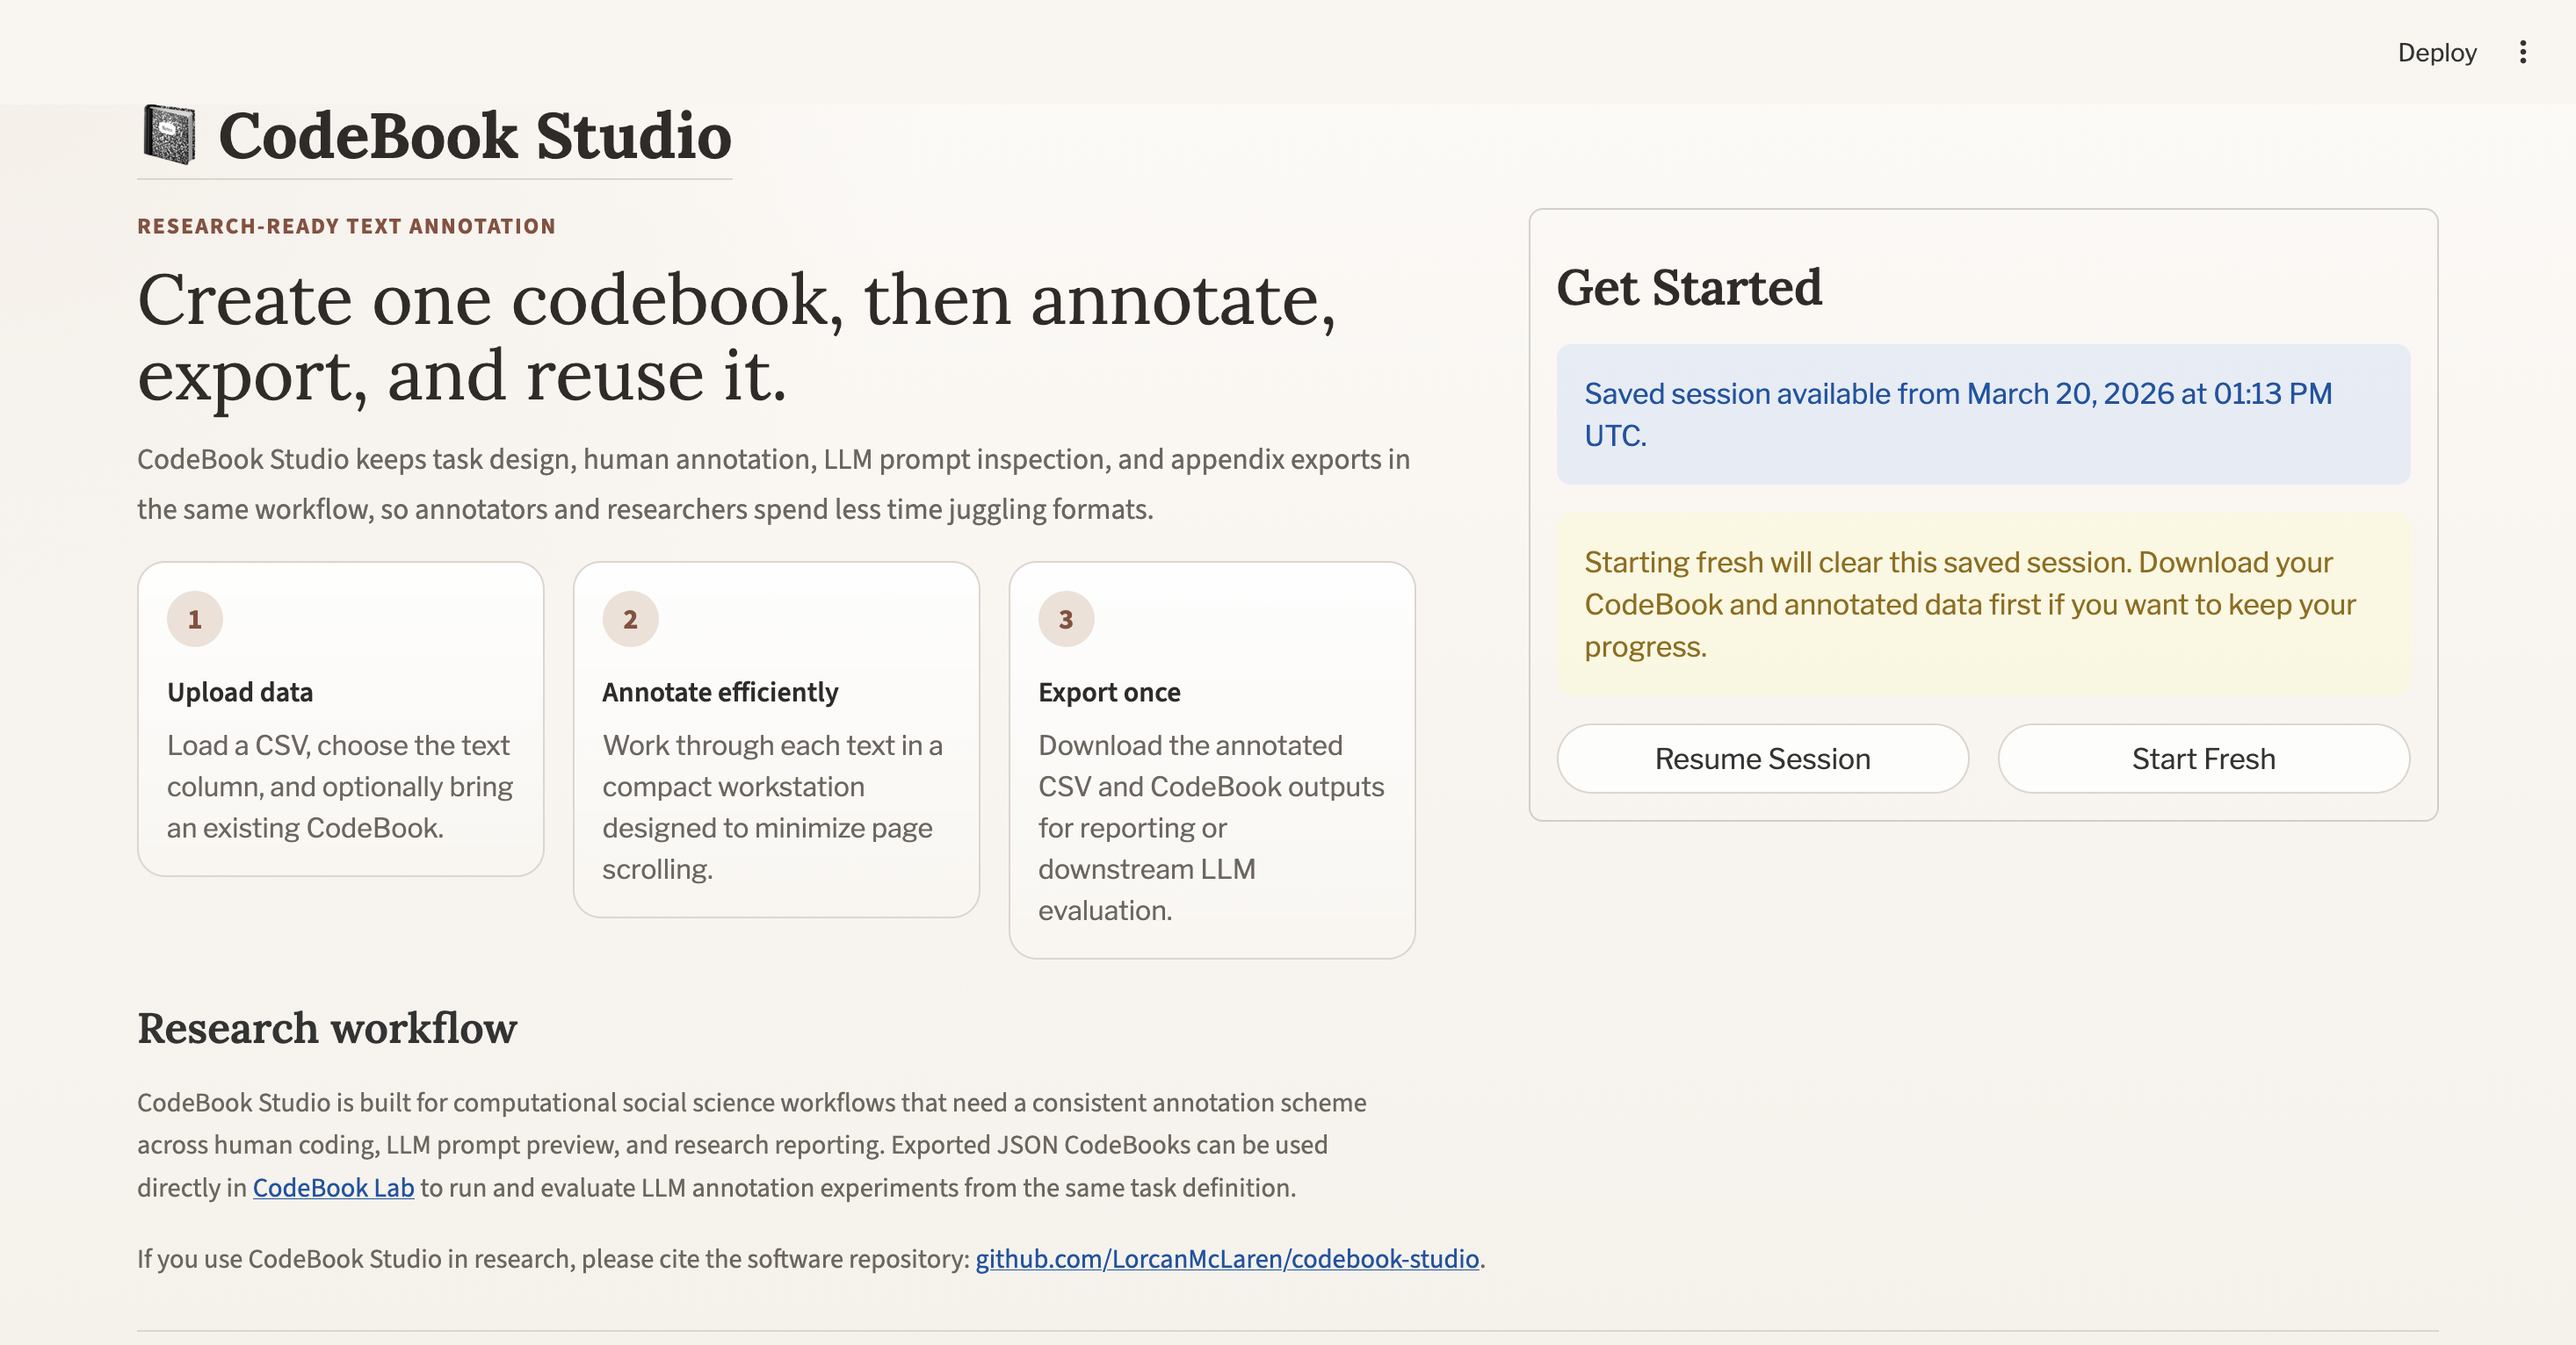
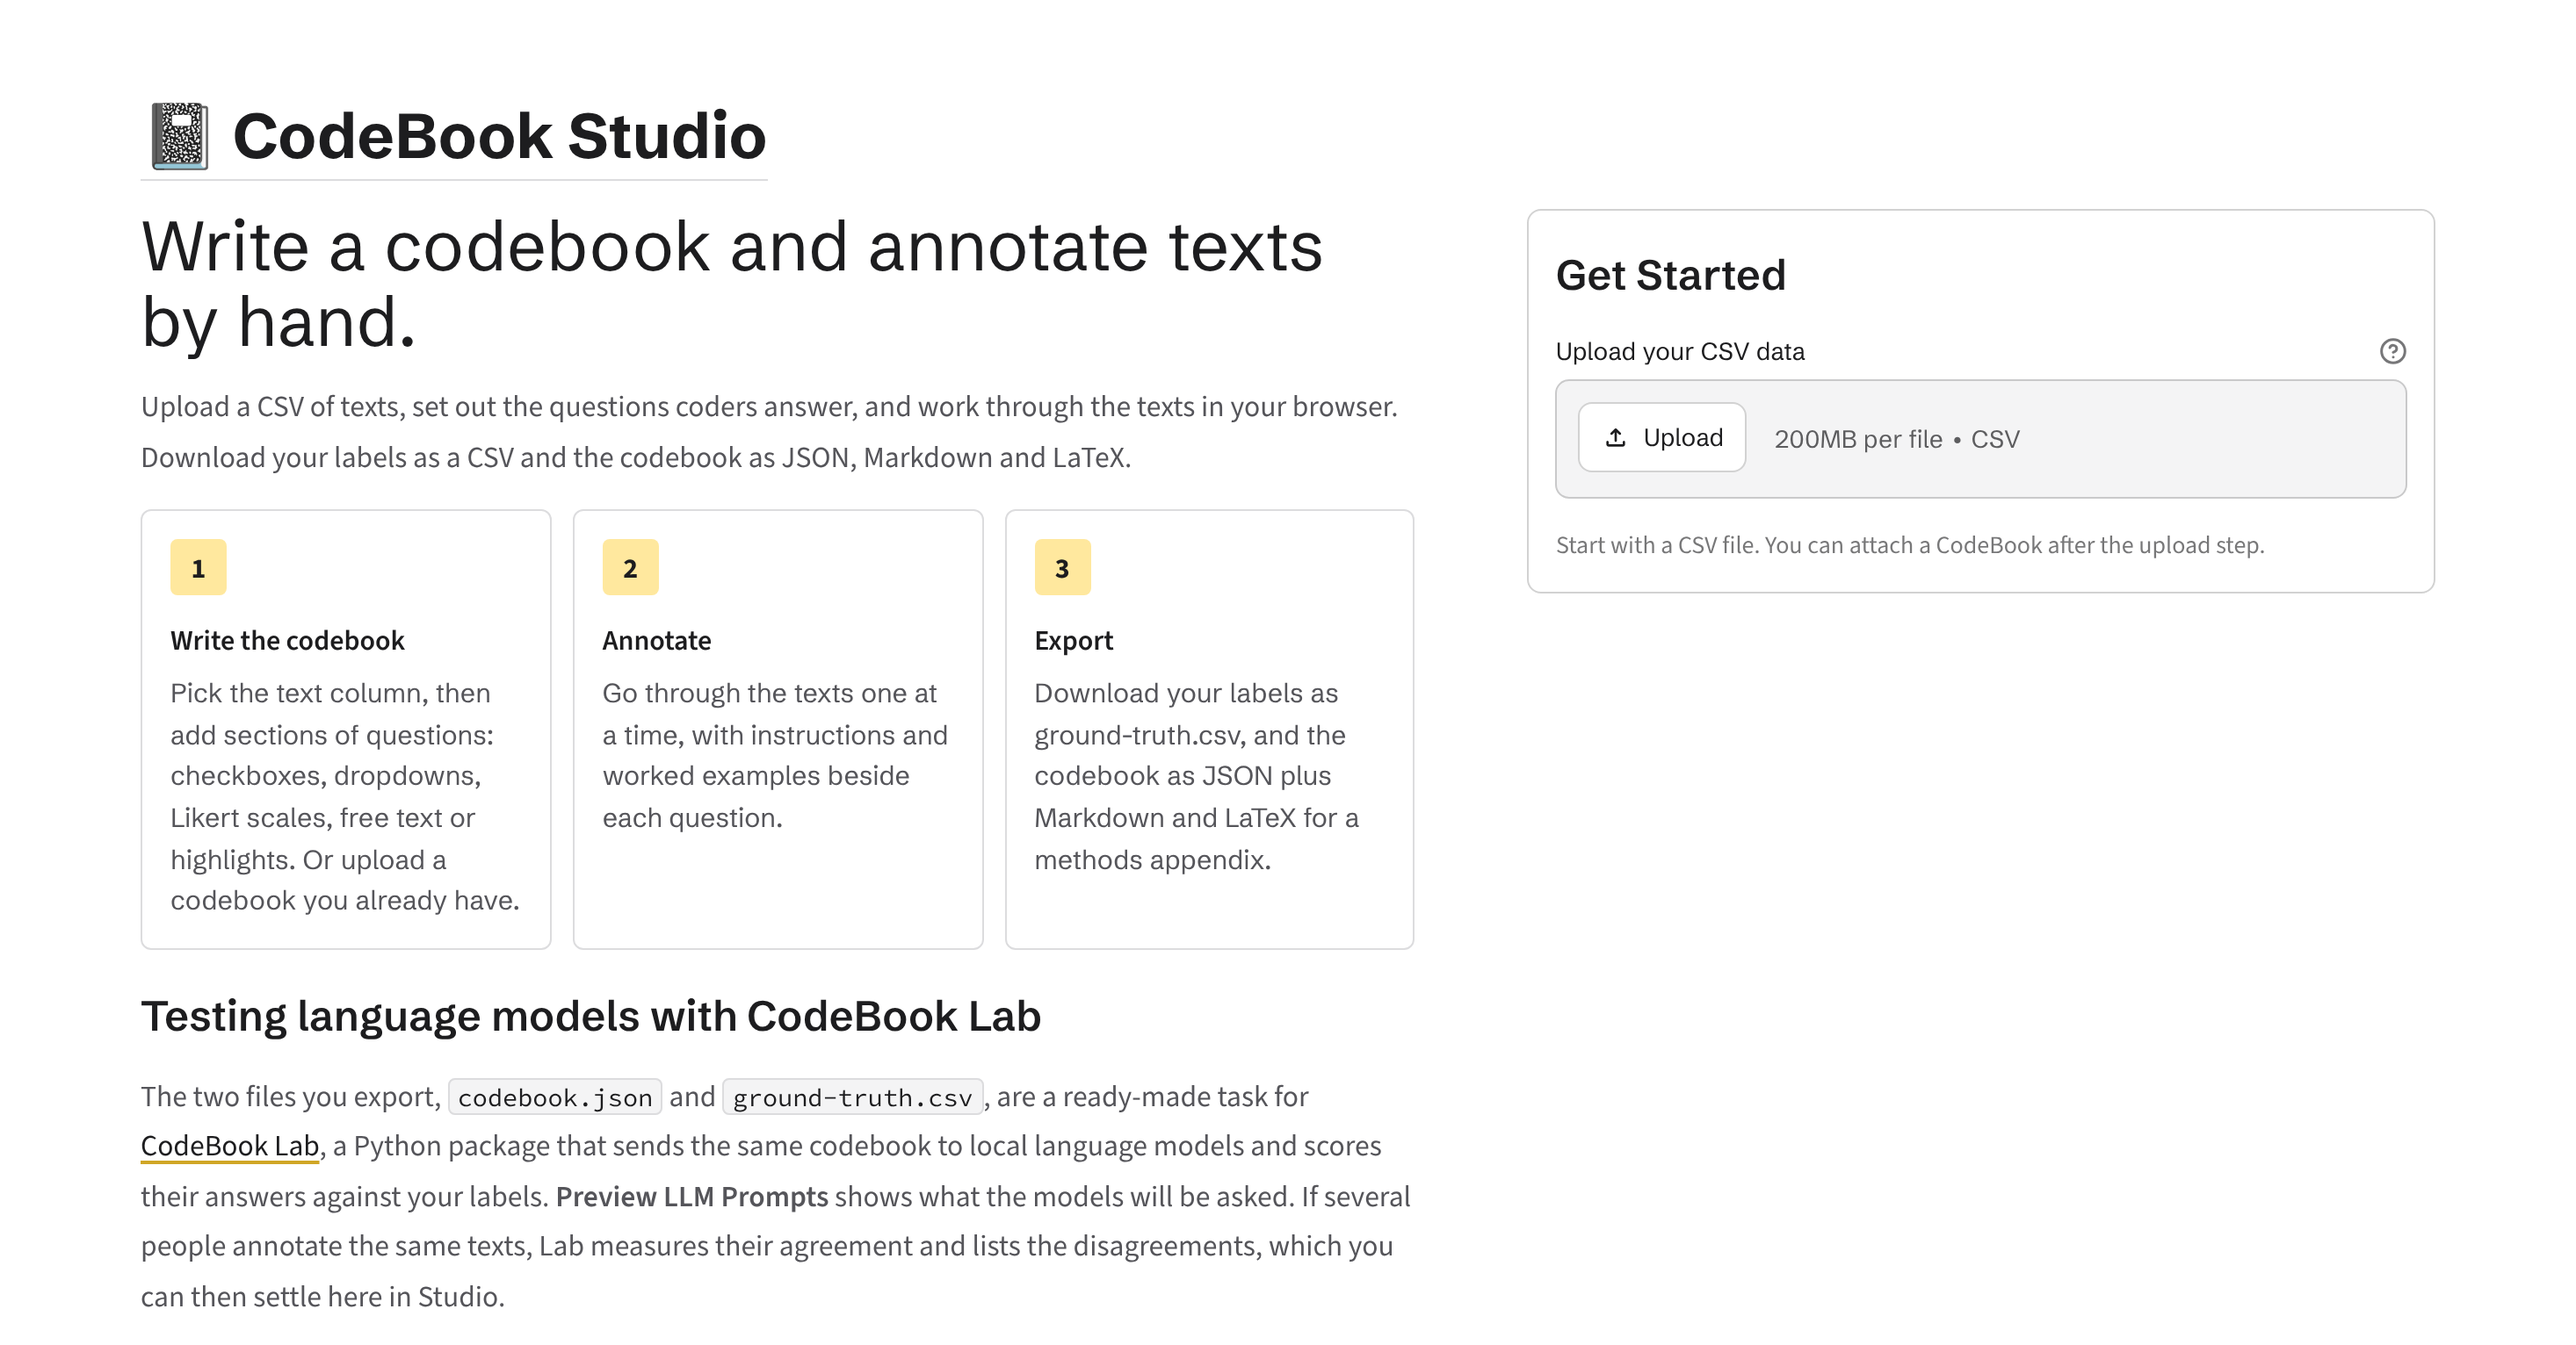
Update CodeBook Studio screenshot on the homepage and project page
Replace the old cream-themed capture with the restyled landing page at the
same size, and give listing thumbnails a thin frame so white screenshots
keep an edge on the white page.

Claude-Session: https://claude.ai/code/session_01QxiR2isFQaaq4rQZNiaJu4

diff --git a/docs/styles.css b/docs/styles.css
@@ -746,3 +746,9 @@ p:has(mark.code-software:focus) mark.code-software {
 .cv-page #title-block-header {
   display: none;
 }
+
+/* Listing thumbnails (e.g. app screenshots): a thin frame so white images keep an edge */
+.image_list img {
+  border: 1px solid var(--rule);
+  border-radius: 4px;
+}

diff --git a/styles.css b/styles.css
@@ -746,3 +746,9 @@ p:has(mark.code-software:focus) mark.code-software {
 .cv-page #title-block-header {
   display: none;
 }
+
+/* Listing thumbnails (e.g. app screenshots): a thin frame so white images keep an edge */
+.image_list img {
+  border: 1px solid var(--rule);
+  border-radius: 4px;
+}
